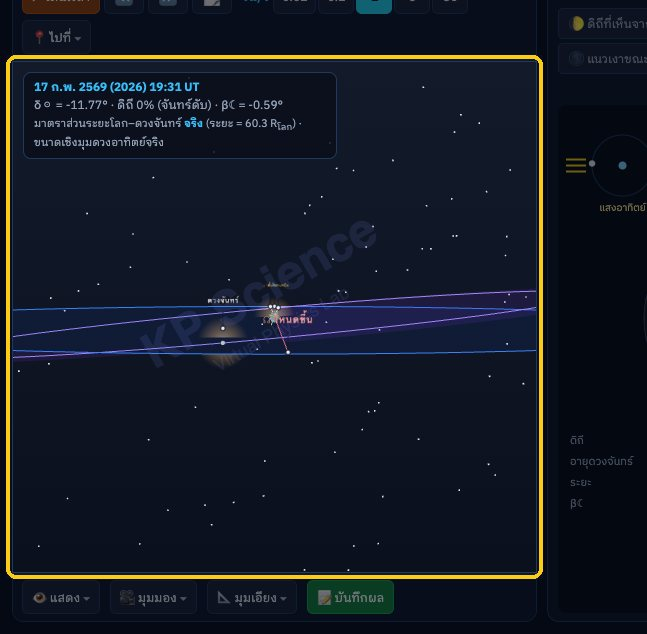
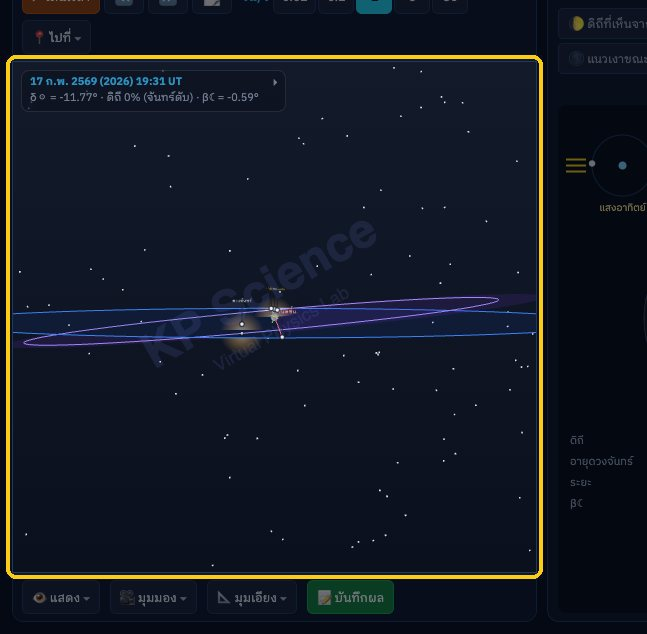
fix(lab171): ภาพ 3D เต็มกรอบทุกสัดส่วนจอ + ป้ายข้อมูลในแคนวาสพับเก็บได้
ครูติว่าภาพเล็กไปและป้ายในแคนวาสบังภาพ
- fitView(): คำนวณระยะกล้องจากขนาดวงโคจรที่เห็นจริงเทียบสัดส่วนกรอบ (เหลือขอบ 6%)
  แทนระยะคงที่ 430 ที่ทำให้วงโคจรลอยเล็กบนกรอบกว้าง-เตี้ย และถูกตัดขอบบนกรอบแคบ
  · เรียกตอนเปลี่ยนมุมมองและตอนกรอบเปลี่ยนขนาด · ไม่รีเซ็ตถ้าผู้ใช้หมุน/ซูมเอง
- HUD: ฟอนต์เล็กลง พื้นหลังโปร่งขึ้น พับเก็บได้ด้วยปุ่ม ▸/▾ · ค่าเริ่มต้นย่อ (42 px จาก 73 px)
  · จำสถานะใน localStorage
- ถ่ายภาพวิธีการทดลองใหม่ทั้ง 15 ขั้น

Changed region(s): [[0.0, 0.4495, 0.8346, 0.5694], [0.0309, 0.1199, 0.4637, 0.2397]]

diff --git a/Virtual Physics Lab 02/171. earth-moon-orbits.html b/Virtual Physics Lab 02/171. earth-moon-orbits.html
@@ -38,7 +38,11 @@ nav.tabs button.active{background:var(--accent);border-color:var(--accent);color
 .sim-main{padding:12px;display:flex;flex-direction:column;gap:10px;min-width:0}
 .view3d{position:relative;height:400px;background:linear-gradient(180deg,#141c2c,#0a0f1c);border:1px solid var(--border);border-radius:12px;overflow:hidden}
 .view3d canvas{display:block;width:100%;height:100%;cursor:grab}
-.view3d .hud{position:absolute;left:10px;top:10px;background:rgba(10,14,26,.82);border:1px solid var(--border);border-radius:8px;padding:6px 10px;font-size:.74rem;color:var(--muted);pointer-events:none;line-height:1.5;max-width:60%}
+.view3d .hud{position:absolute;left:8px;top:8px;background:rgba(10,14,26,.72);border:1px solid rgba(148,163,184,.22);border-radius:8px;padding:4px 26px 4px 8px;font-size:.68rem;color:var(--muted);pointer-events:none;line-height:1.45;max-width:min(52%,380px);backdrop-filter:blur(2px)}
+.view3d .hud.min{opacity:.72}
+.view3d .hud.min .hud-more{display:none}
+.view3d .hud-tog{position:absolute;right:3px;top:3px;pointer-events:auto;cursor:pointer;border:0;background:transparent;color:var(--muted);font-size:.72rem;line-height:1;padding:3px 4px;border-radius:5px;font-family:inherit}
+.view3d .hud-tog:hover{color:var(--accent);background:rgba(56,189,248,.12)}
 .view3d .hud b{color:var(--accent)}
 .view3d .viewbtns{position:absolute;left:10px;bottom:10px;display:flex;gap:4px}
 .view3d .viewbtns button,.btn-mini{background:rgba(26,34,53,.9);border:1px solid var(--border);color:var(--muted);padding:4px 10px;border-radius:5px;cursor:pointer;font-size:.74rem;font-family:inherit}
@@ -728,16 +732,16 @@ function init3D(){ const cv=$('glCanvas'); if(typeof THREE==='undefined'){ $('no
   if(window.ResizeObserver) new ResizeObserver(()=>{ resize3D(); drawGraph(); drawDiag(); }).observe($('canvasBox'));
 }
 function camUpdate(){ const t=orbit.target; camera.position.set(t.x+orbit.dist*Math.sin(orbit.az)*Math.cos(orbit.el), t.y+orbit.dist*Math.sin(orbit.el), t.z+orbit.dist*Math.cos(orbit.az)*Math.cos(orbit.el)); camera.lookAt(t); }
-function resize3D(){ if(!renderer) return; const b=$('canvasBox'), w=b.clientWidth||800, h=b.clientHeight||440; renderer.setSize(w,h,false); camera.aspect=w/h; camera.updateProjectionMatrix(); }
+function resize3D(){ if(!renderer) return; const b=$('canvasBox'), w=b.clientWidth||800, h=b.clientHeight||440; renderer.setSize(w,h,false); camera.aspect=w/h; camera.updateProjectionMatrix(); fitView(); }
 function setupPointer(cv){ let dm=false,lx=0,ly=0;
   const down=(x,y)=>{ dm=true; lx=x; ly=y; cv.style.cursor='grabbing'; };
-  const move=(x,y)=>{ if(!dm) return; orbit.az-=(x-lx)*.006; orbit.el=Math.max(-1.5,Math.min(1.5,orbit.el+(y-ly)*.006)); lx=x; ly=y; };
+  const move=(x,y)=>{ if(!dm) return; userCam=true; orbit.az-=(x-lx)*.006; orbit.el=Math.max(-1.5,Math.min(1.5,orbit.el+(y-ly)*.006)); lx=x; ly=y; };
   const up=()=>{ dm=false; cv.style.cursor='grab'; };
   cv.addEventListener('mousedown',e=>{ e.preventDefault(); down(e.clientX,e.clientY); }); window.addEventListener('mousemove',e=>{ if(dm&&e.buttons===0) up(); move(e.clientX,e.clientY); }); window.addEventListener('mouseup',up); window.addEventListener('blur',up);
   cv.addEventListener('touchstart',e=>{ if(e.touches.length===1){ down(e.touches[0].clientX,e.touches[0].clientY); e.preventDefault(); } },{passive:false});
   cv.addEventListener('touchmove',e=>{ if(e.touches.length===1){ move(e.touches[0].clientX,e.touches[0].clientY); e.preventDefault(); } },{passive:false});
   cv.addEventListener('touchend',up); cv.addEventListener('touchcancel',up);
-  cv.addEventListener('wheel',e=>{ e.preventDefault(); orbit.dist=Math.max(6,Math.min(2000,orbit.dist*(1+e.deltaY*.0012))); },{passive:false});
+  cv.addEventListener('wheel',e=>{ e.preventDefault(); userCam=true; orbit.dist=Math.max(6,Math.min(2000,orbit.dist*(1+e.deltaY*.0012))); },{passive:false});
   cv.style.cursor='grab';
 }
 /* วงโคจรโลก (วงรีจริง a=1 AU · e=0.0167 · ลองจิจูดจุดใกล้สุด 102.95°) */
@@ -813,8 +817,22 @@ function update3D(){ if(!scene) return; G=geomAt(tt);
   /* HUD */
   const sNote=T?'มาตราส่วนระยะโลก–ดวงจันทร์ <b>จริง</b> (ระยะ = 60.3 R<sub>โลก</sub>) · ขนาดเชิงมุมดวงอาทิตย์จริง':
     ('ภาพรวมวงโคจร: ระยะในวงโคจรโลกตามมาตราส่วน · ขยายขนาดดวงดาว ×'+Math.round(eR/(REARTH*AUU/AU))+' · ขยายวงโคจรดวงจันทร์ ×'+Math.round(KSHOW/(AUU/AU)));
-  $('hud').innerHTML='<b>'+dateTxt(tt)+'</b><br>δ☉ = '+fmt(G.dec,2)+'° · ดิถี '+Math.round(G.k*100)+'% ('+phaseName(G.dlam)+') · β☾ = '+fmt(G.M.bet,2)+'°<br><span style="font-size:.92em">'+sNote+'</span>';
+  const hd=$('hud');
+  hd.innerHTML='<button class="hud-tog" type="button" title="ย่อ/ขยายป้ายข้อมูล" onclick="hudTog(event)">'+(hudMin?'▸':'▾')+'</button>'+
+    '<b>'+dateTxt(tt)+'</b><br>δ☉ = '+fmt(G.dec,2)+'° · ดิถี '+Math.round(G.k*100)+'% ('+phaseName(G.dlam)+') · β☾ = '+fmt(G.M.bet,2)+'°'+
+    '<span class="hud-more"><br><span style="font-size:.92em">'+sNote+'</span></span>';
+  hd.classList.toggle('min',hudMin);
 }
+let hudMin=(()=>{ try{ return localStorage.getItem('kp171Hud')!=='full'; }catch(e){ return true; } })();   /* ค่าเริ่ม: ย่อ — ป้ายจะได้ไม่บังภาพ */
+function hudTog(e){ if(e) e.stopPropagation(); hudMin=!hudMin; try{ localStorage.setItem('kp171Hud',hudMin?'min':'full'); }catch(x){} update3D(); }
+/* ขยายภาพให้เต็มกรอบ: คำนวณระยะกล้องจากขนาดวงโคจรที่เห็นจริง (กว้าง 2R · สูง 2R·sin มุมเงย) ตามสัดส่วนจอ */
+let userCam=false;
+const VIEW_R={iso:153,top:153,edge:153,em:160};
+function fitView(force){ if(!camera||!VIEW_R[view]) return; if(userCam&&!force) return; const R=VIEW_R[view];
+  const b=$('canvasBox'), w=b.clientWidth||800, h=b.clientHeight||440, asp=Math.max(w/h,0.3);
+  const t=Math.tan(camera.fov*Math.PI/360);
+  const hNeed=R*Math.max(Math.abs(Math.sin(orbit.el)),0.14)+R*0.10, wNeed=R*1.06;
+  orbit.dist=Math.max(hNeed/t, wNeed/(t*asp))/0.94; camUpdate(); }
 /* ═══════════ มุมมอง / ปุ่ม ═══════════ */
 function setView(v){ view=v; const T=(v==='em'||v==='earth'); scl=T?'true':'show';
   if(v==='iso'){ orbit.target.set(0,0,0); orbit.az=.6; orbit.el=.5; orbit.dist=430; }
@@ -822,7 +840,7 @@ function setView(v){ view=v; const T=(v==='em'||v==='earth'); scl=T?'true':'show
   if(v==='edge'){ orbit.target.set(0,0,0); orbit.az=1.2; orbit.el=.03; orbit.dist=420; }
   if(v==='em'){ orbit.target.set(0,0,0); orbit.az=.7; orbit.el=.5; orbit.dist=380; }
   if(v==='earth'){ orbit.target.set(0,0,0); orbit.az=.7; orbit.el=.3; orbit.dist=12; }
-  update3D(); }
+  userCam=false; fitView(true); update3D(); }
 function tog(k){ SHOW[k]=!SHOW[k]; paintTog(); }
 /* ═══ เมนูในแถบควบคุม (เปิดทีละเมนู · คลิกนอกเมนูหรือกด Esc เพื่อปิด) ═══ */
 function popFit(m){ const p=m.querySelector('.pop'); if(!p) return; p.style.left=''; p.style.right=''; p.style.maxWidth='';

diff --git a/SESSION_LOG.md b/SESSION_LOG.md
@@ -5665,3 +5665,22 @@ match /settings/{docId} {
 ### หมายเหตุ
 - สคริปต์แชร์ (kp-real3d · kp-speed · pan) หาปุ่มแรกที่ `onclick^="setView("` แล้วแทรกปุ่มของตัวเองในพ่อแม่เดียวกัน → พอย้ายปุ่มมุมมองเข้า popover ปุ่มพวกนั้นตามเข้าไปอยู่ในเมนูเองโดยไม่ต้องแก้สคริปต์
 - `.view3d{overflow:hidden}` → popover ต้องเปิด "เข้าใน" กรอบภาพเสมอ (บน = ลงล่าง · ล่าง = ขึ้นบน) และต้องมี popFit กันล้นด้านข้าง
+
+## [2026-11-25 08:40] — [เครื่อง: ที่ทำงาน]
+
+### ทำอะไรไปบ้าง
+- **ภาพ 3D ใหญ่ขึ้น** — เดิมตั้งระยะกล้องเป็นค่าคงที่ (430) ไม่ว่าจอจะสัดส่วนไหน พอกรอบภาพกว้าง-เตี้ย วงโคจรเลยลอยเล็กกลางจอ · เพิ่ม `fitView()` คำนวณระยะกล้องจากขนาดวงโคจรที่เห็นจริง (กว้าง 2R · สูง 2R·sin มุมเงย) เทียบกับสัดส่วนกรอบ เหลือขอบ 6% → ภาพเต็มกรอบทุกสัดส่วน และถ้ากรอบแคบก็ถอยให้พอดีแทนที่จะตัดขอบวงโคจรทิ้งแบบเดิม
+- เรียก `fitView()` ตอนเปลี่ยนมุมมองและตอนกรอบเปลี่ยนขนาด · แต่ถ้าผู้ใช้หมุน/ซูมเอง (`userCam`) จะไม่ไปรีเซ็ตมุมที่ตั้งไว้
+- **ป้ายข้อมูลในแคนวาส (HUD) ไม่บังภาพแล้ว** — ย่อฟอนต์/ระยะขอบ พื้นหลังโปร่งขึ้น + **พับเก็บได้** ด้วยปุ่ม ▸/▾ มุมป้าย · ค่าเริ่มต้นคือ**ย่อ** (เหลือ 2 บรรทัด: วันที่ + δ☉/ดิถี/β☾ · สูง 42 px จากเดิม ~73 px) ส่วนบรรทัดอธิบายมาตราส่วนกดขยายดูได้ · จำค่าไว้ใน localStorage `kp171Hud`
+- ถ่ายภาพวิธีการทดลองใหม่ทั้ง 15 ขั้น (ภาพ 3D ใหญ่ขึ้นเห็นชัดกว่าเดิมมาก โดยเฉพาะขั้น 2 แกนโลกเอียง และขั้น 11 ระนาบวงโคจร)
+- ทดสอบ headless: ปุ่มพับป้ายทำงาน (42 ↔ 73 px) · เมนูทุกอันทำงานเหมือนเดิม · ไปครีษมายันได้ δ☉ = 23.44° · ไม่มี JS error
+
+### ไฟล์ที่แก้
+- `Virtual Physics Lab 02/171. earth-moon-orbits.html` — `fitView()` · `userCam` · HUD ย่อ/พับ (`hudTog`, CSS `.hud.min`)
+- `assets/guides/vpl02-lab-171/step-1..15.jpg` — ถ่ายใหม่
+
+### ค้างไว้ที่ไหน / ต้องทำต่อ
+- ยังไม่ push (commit ไว้แล้ว)
+
+### หมายเหตุ
+- HUD ถูกเขียน innerHTML ใหม่ทุกเฟรมที่ `update3D()` → ปุ่มในป้ายต้องใช้ `onclick` ในแท็ก (ผูก listener จากข้างนอกจะหลุดทุกเฟรม)
